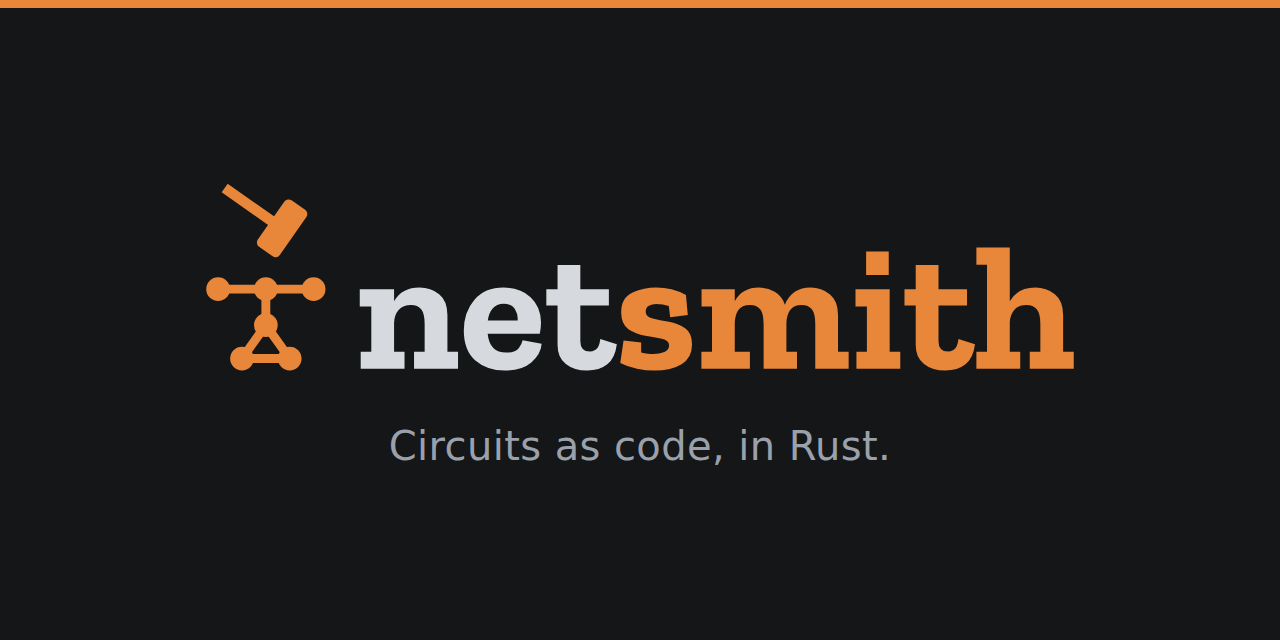
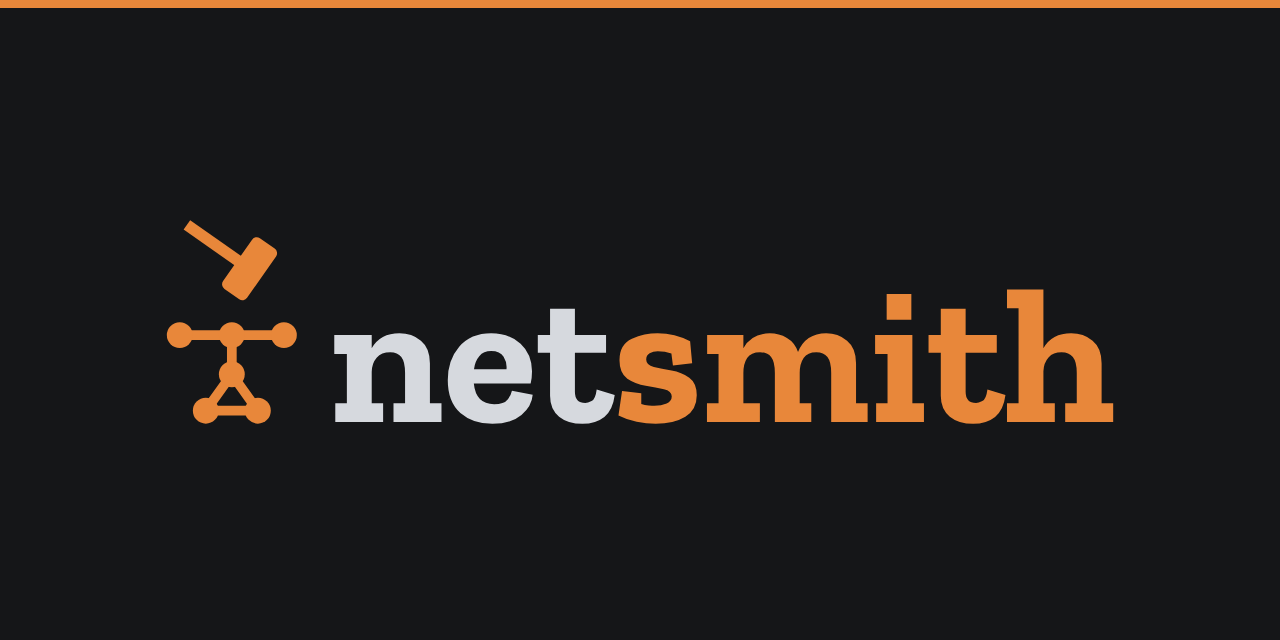
Drop the slogan 'Circuits as code, in Rust': plain description in README and AGENTS.md, social image without a tagline

Changed region(s): [[0.125, 0.3125, 0.875, 0.7188], [0.1562, 0.2812, 0.1875, 0.3125]]

diff --git a/docs/assets/social-preview.html b/docs/assets/social-preview.html
@@ -1,6 +1,6 @@
 <!doctype html>
 <!-- The source of social-preview.png (1280 x 640, GitHub's size for a repository social preview).
-     The tagline is the one text in the page: change it in <p id="tagline"> and render again with
+     There is no tagline for now. To add one, set TAGLINE in render-social.mjs (the one value) and run
      `node docs/assets/render-social.mjs` (see NOTICE.md). -->
 <meta charset="utf-8">
 <title>netsmith social preview</title>
@@ -11,11 +11,11 @@
   .bar { position: absolute; left: 0; right: 0; top: 0; height: 8px; background: #e8873a; }
   .content { position: absolute; inset: 8px 0 0 0; display: flex; flex-direction: column;
              align-items: center; justify-content: center; gap: 44px; }
-  img { width: 880px; height: auto; display: block; }
+  img { width: 960px; height: auto; display: block; }
   #tagline { margin: 0; color: #9aa1ab; font-size: 40px; letter-spacing: .01em; }
 </style>
 <div class="bar"></div>
 <div class="content">
   <img src="logo-dark.svg" alt="netsmith">
-  <p id="tagline">Circuits as code, in Rust.</p>
+  <p id="tagline" hidden></p>
 </div>

diff --git a/docs/assets/NOTICE.md b/docs/assets/NOTICE.md
@@ -38,7 +38,7 @@ on GitHub's light canvas `#f6f8fa`). Text is `#d6d9de` on dark and `#1c1d20` on 
 | `logo-mark-light.svg`, `logo-light.svg` | light backgrounds | `#d4691a` | `#1c1d20` |
 | `logo.svg` | follows the reader's `prefers-color-scheme` (dark when there is none) | `#e8873a`, `#d4691a` in light | `#d6d9de`, `#1c1d20` in light |
 | `logo-mono-black.svg`, `logo-mono-white.svg` | one colour | black, white | the same |
-| `social-preview.png` | dark by design | `#e8873a` | `#d6d9de`, tagline `#9aa1ab` |
+| `social-preview.png` | dark by design | `#e8873a` | `#d6d9de` |
 | favicon (`crates/netsmith-editor/web/src/assets/favicon.svg`) | follows `prefers-color-scheme` (dark when there is none) | `#e8873a`, `#d4691a` in light | none |
 | `favicon-32.png`, `apple-touch-icon.png` (same folder) | dark accent | `#e8873a` | none |
 
@@ -49,7 +49,7 @@ The README shows `logo-dark.svg` and `logo-light.svg` through a `<picture>`.
   a `#151618` background.
 - `social-preview.png` is 1280 x 640, GitHub's size for a repository social preview. It is set by hand
   in the repository's settings (Settings, General, Social preview); the file does nothing until then.
-  It is rendered from `social-preview.html`, where the tagline is the one text to change, by
-  `node docs/assets/render-social.mjs` (Node 20 or newer; `cd scripts/editor-verify-js && npm ci` once
-  for the headless Chromium). The tagline is set in the system's sans-serif font; it is a picture, so no
-  font file is part of the project.
+  It is rendered from `social-preview.html` by `node docs/assets/render-social.mjs` (Node 20 or newer;
+  `cd scripts/editor-verify-js && npm ci` once for the headless Chromium). It has no tagline; to add one,
+  set `TAGLINE` in the script. A tagline would use the muted colour `#9aa1ab` of the page and be set in the system's sans-serif font in a picture, so no
+  font file would be part of the project.

diff --git a/README.md b/README.md
@@ -5,7 +5,8 @@
   </picture>
 </h1>
 
-Circuits as code, in Rust. A board is a set of parts and the nets that join their pins,
+A language and tools for designing electronics as code: schematics, solvers, checks and PCB fabrication outputs.
+A board is a set of parts and the nets that join their pins,
 written as text. netsmith checks it, picks real parts that work in the worst case, and
 exports files for CAD tools and for a board house. It writes a KiCad 9 schematic, and a placed
 and routed PCB with a Gerber package for JLCPCB, on two layers or on four with ground and

diff --git a/crates/netsmith/templates/AGENTS.md b/crates/netsmith/templates/AGENTS.md
@@ -1,6 +1,6 @@
 # Working in this project
 
-This is a netsmith project: circuits as code. Boards are written in `.nsm` files under `src/`; `netsmith` checks them, picks real parts that work in the worst case, and writes KiCad files and a package for JLCPCB. `netsmith.toml` lists the files that hold boards.
+This is a netsmith project. Boards are written in `.nsm` files under `src/`; `netsmith` checks them, picks real parts that work in the worst case, and writes KiCad files and a package for JLCPCB. `netsmith.toml` lists the files that hold boards.
 
 ## Commands
 

diff --git a/AGENTS.md b/AGENTS.md
@@ -1,6 +1,6 @@
 # netsmith
 
-Circuits as code, in Rust. `README.md` says what it is and how to run it.
+A language and tools for designing electronics as code. `README.md` says what it is and how to run it.
 
 ## Build, test, lint
 
